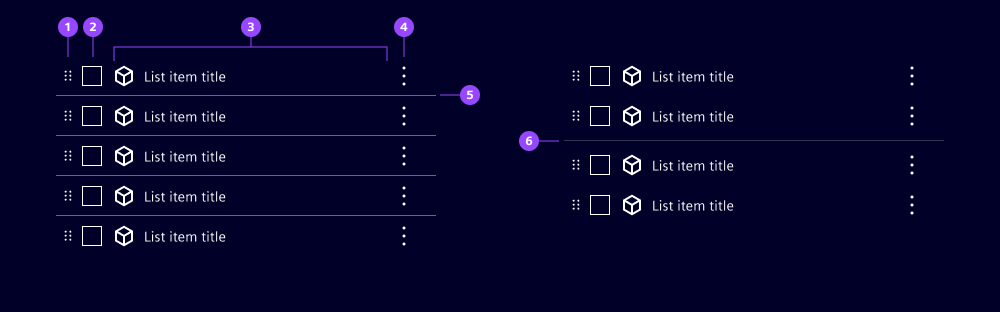
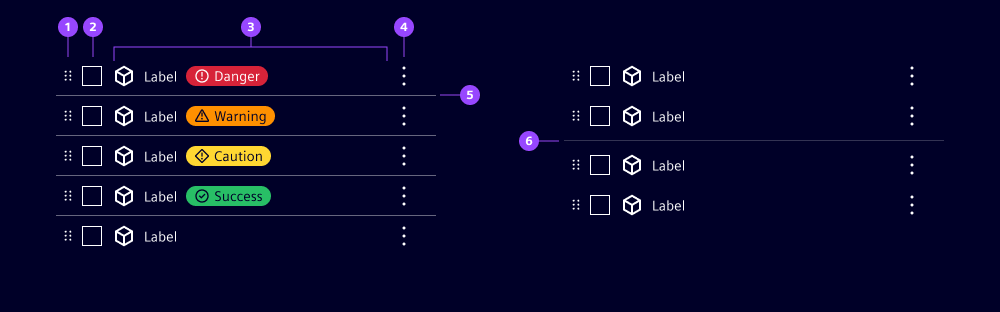
applied feedback from UX review

diff --git a/docs/components/list/guide.md b/docs/components/list/guide.md
@@ -12,16 +12,12 @@ Use lists when users need to scan related items vertically and might need to sel
 
 1. Drag indicator
 2. Checkbox
-3. Content
+3. Content with icon, label and status badge
 4. Actions
 5. Divider
 6. Separator
 
-Keep lists focused on one item type. Use a single column for straightforward content; use [grids](../grid) or [tables](../html-grid) when additional columns support data analysis rather than simple scanning.
-
-Use a divider to distinguish items within lists. Use a separator to create space between groups of items. Keep these two patterns distinct so users can understand both item boundaries and group boundaries at a glance.
-
-Choose [grids](../grid) or [tables](../html-grid) when data needs multiple columns, sorting, filtering, comparison, or dense editing. Choose [trees](../tree) for parent-child hierarchy or [card lists](../card-list) for visual summaries. For text with no interaction or additional structure, use native HTML lists.
+Keep lists focused on one item type. Use a divider to distinguish items within lists. Use a separator to create space between groups of items. Keep these two patterns distinct so users can understand both item boundaries and group boundaries at a glance.
 
 ## Variants
 
@@ -36,26 +32,25 @@ Use one variant consistently within a list. When one item needs emphasis, use it
 ### List item
 
 - **Checkbox:** Use a checkbox when users select items independently of activating the item.
-- **Icon:** Use a meaningful icon and provide a meaningful accessible name when the icon carries information.
+- **Icon:** Use a meaningful icon and provide a descriptive accessible name when the icon carries information.
 - **Label:** Keep the primary title short and specific so items remain easy to scan.
 - **Description:** Add supporting information only when it helps users identify or act on the item.
 - **Selected:** Use selected state when an item is currently chosen or active.
-- **Default content:** We prepared templates for common content patterns, but you can also create your own custom layout. Use the following templates as a starting point:
-  - Simple template (icon and title)
-  - Advanced template (title with supporting text and status)
-  - Custom, e.g. for notifications or other patterns
-- **Action content:** Place controls that do not activate the item in the trailing action area. We recommend to use up to four icon buttons or up to two text buttons
+- **Content:** Use the built-in icon, label and description properties for all common list item layouts. Alternatively, create your own custom layout, e.g. notifications or events.
+- **Action content:** Place controls that do not activate the item in the trailing action area. We recommend to use up to four icon buttons or up to two text buttons.
 
 ### List
 
 - **Dividers:** Use dividers between direct list items, primarily with the ghost variant.
-- **Item gap:** Control the gap between items. We recommend `none` for a continuous list, `sm` or `md` for light separation between items, or `lg` when groups need stronger visual distinction.
+- **Item gap:** Control the gap between items. We recommend `none` for a continuous list, `sm` (default) or `md` for light separation between items, or `lg` when groups need stronger visual distinction.
 - **Selection:** Allow selecting an item in the list.
-- **Action visibility:** Keep essential actions visible. Show supplementary actions on hover and focus when space is limited
-- **Action alignment:** Align actions to the center for single-line items. Align them to the start when descriptions or custom content create taller items
-- **Reordering:** Enable dragging only when item order has meaning
+- **Action on hover:** Show supplementary actions only when the list item is hovered or focused to keep the list uncluttered. Use this approach only if they are also accessible elsewhere in the workflow, e.g. to enable shortcuts for actions available in a detail view.
+- **Action alignment:** Center-align actions vertically for single-line items. Top-align them (`start`) when descriptions or custom content create taller items.
+- **Reordering:** Enable dragging only when item order has meaning.
   - **Dynamic behavior:** The drop target is indicated by the other items moving. Use for short lists or if users should only reorder items roughly, e.g. to quickly prioritize work items.
   - **Separator behavior:** The drop target is indicated by a separator. Use for long, scrollable lists or where users need to place items between specific items, e.g. to define the exact position of work items in a queue.
+
+![List examples](https://www.figma.com/design/wEptRgAezDU1z80Cn3eZ0o/iX-Documentation-illustrations?node-id=8338-10306&t=wY8oAkKcZaMecojj-11)
 
 ## Behavior in context
 
@@ -69,7 +64,7 @@ Use one variant consistently within a list. When one item needs emphasis, use it
 
 ## States
 
-List items have these states: Default, hover, active, focus, disabled and dragging.
+List items have these states: Default, hover, active, focused, dragging and disabled.
 
 ![List states](https://www.figma.com/design/wEptRgAezDU1z80Cn3eZ0o/iX-Documentation-illustrations?node-id=8309-32187)
 
@@ -86,8 +81,7 @@ List items have these states: Default, hover, active, focus, disabled and draggi
   </div>
   <div class="donts">
     <ul aria-label="Practices to avoid">
-      <li>Don’t use lists for multi-column comparison, sorting, filtering, or dense editing, use [grids](../grid) or [tables](../html-grid) instead</li>
-      <li>Don’t hide the only way to complete an essential task behind hover</li>
+      <li>Don’t use lists for multi-column data comparison, sorting, filtering, or dense editing, use [grids](../grid) or [tables](../html-grid) instead</li>
       <li>Don’t mix list item variants to highlight individual items</li>
       <li>Don’t make pointer dragging the only way to reorder items on touch devices</li>
     </ul>
